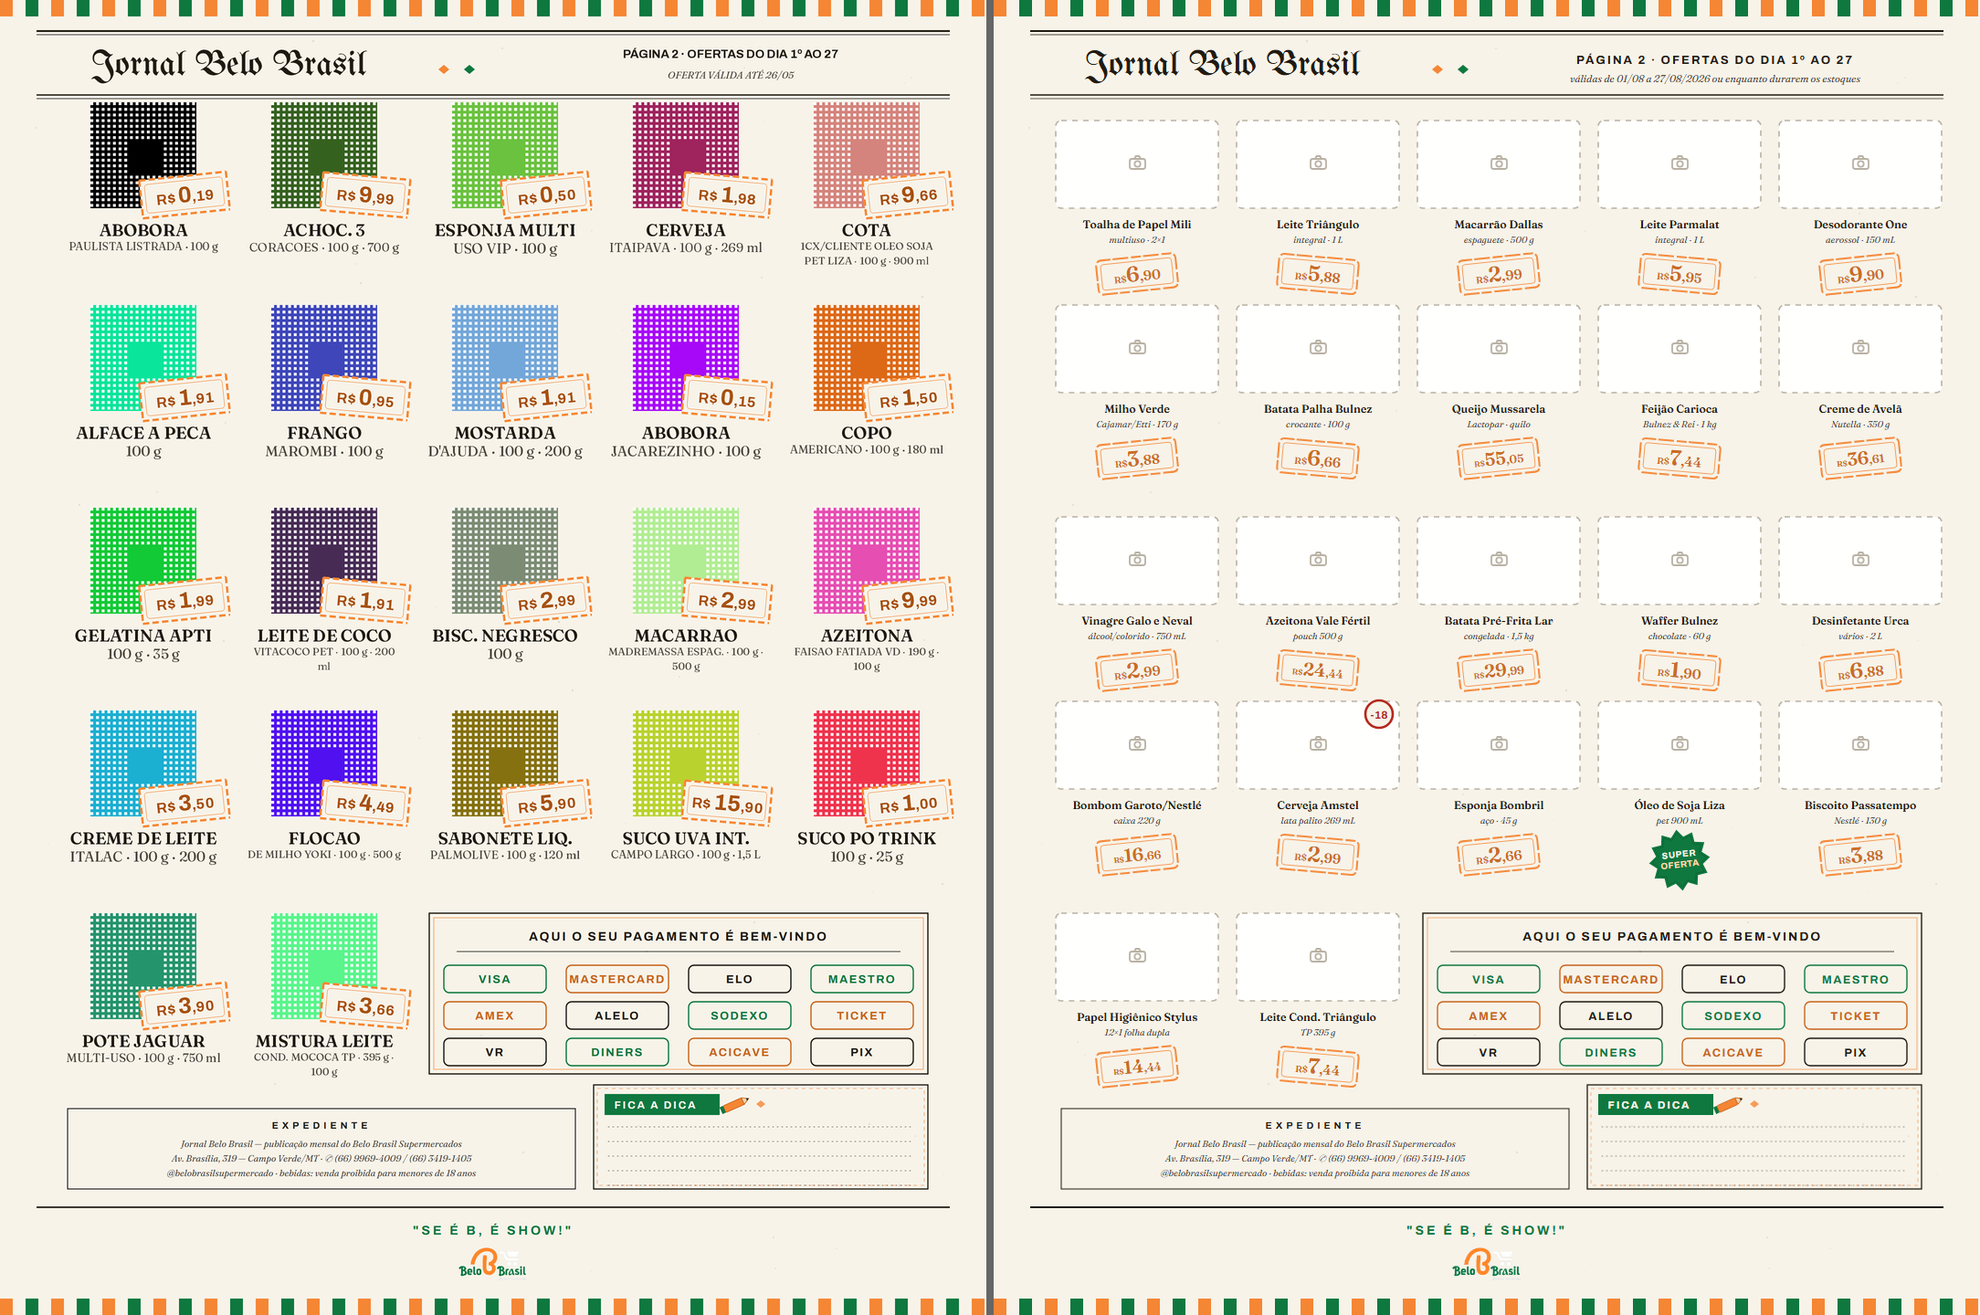
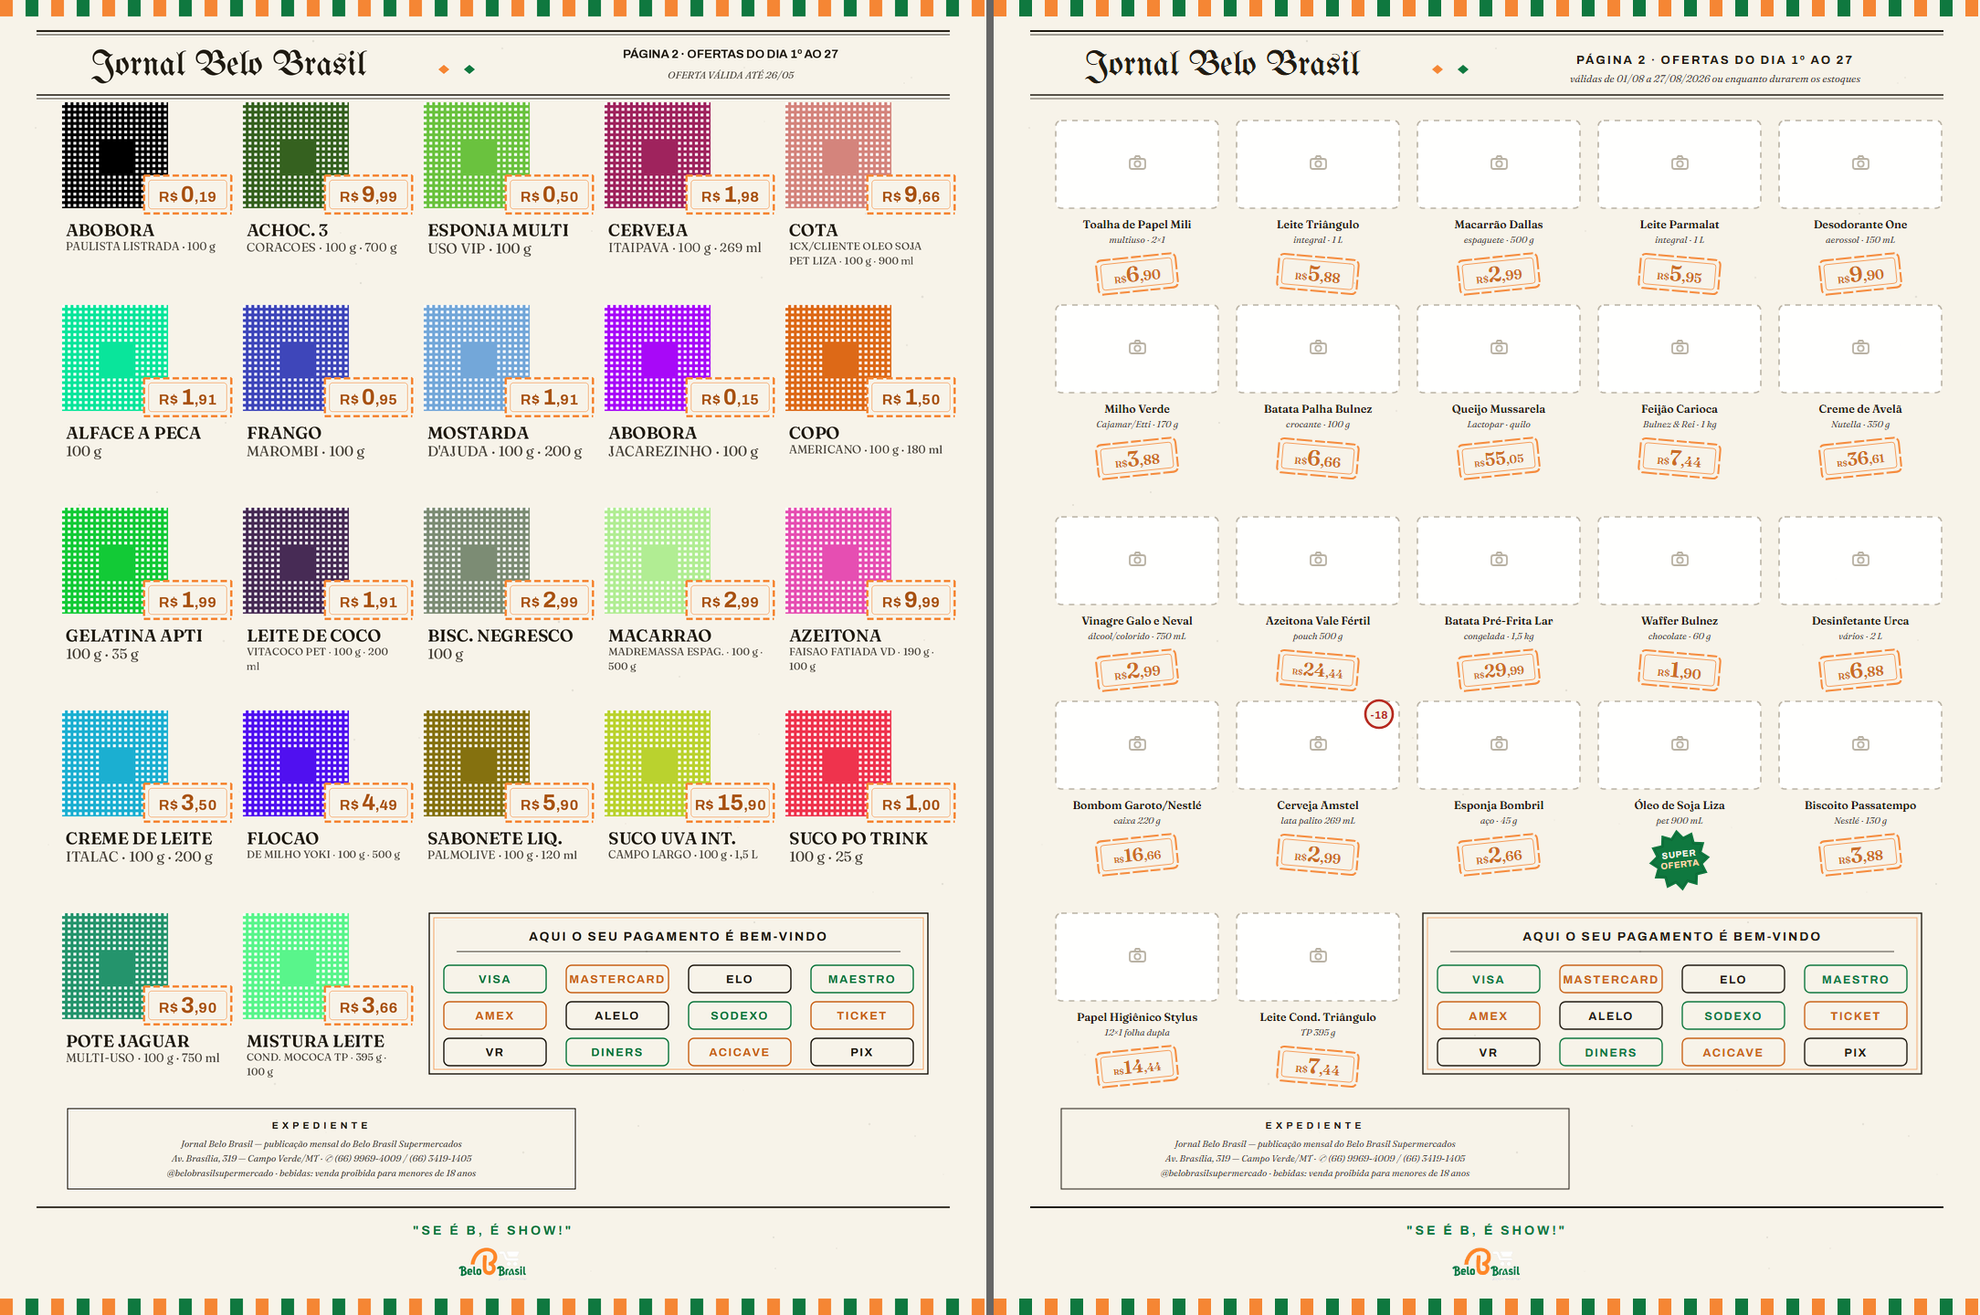
F13 REAUDITORIA PARAGRAFO-7 da UNDEVICESIMUS (04/08): B COM UM EIXO, A ETIQUETA MORDE O CANTO - o veredito do arquiteto sobre dcfd6c1 ('o bloco de texto esta resolvido e nao se mexe mais'; 'falta uma coisa so, com tres desdobramentos'). (7.2) A DECISAO B GRAVADA COM A CORRECAO: B estava incompleto -

diff --git a/app/rendering/compositor.py b/app/rendering/compositor.py
@@ -356,9 +356,21 @@ def _desenhar_imagem(base: Image.Image, reg: Regiao, dados: DadosProduto, dpi: i
                 nw = max(1, round(img.width * escala))
                 nh = max(1, round(img.height * escala))
                 img = img.resize((nw, nh))
-                ox = x + (rw - nw) // 2
+                # §7.2 (a decisão B): região com alinhamento ESQUERDA
+                # encosta a foto no eixo do texto — um eixo por coluna
+                if reg.alinhamento == Alinhamento.ESQUERDA:
+                    ox = x
+                elif reg.alinhamento == Alinhamento.DIREITA:
+                    ox = x + rw - nw
+                else:
+                    ox = x + (rw - nw) // 2
                 oy = y + rh - nh              # o produto assenta
                 base.paste(img, (ox, oy), img)
+                # §7.3: a SILHUETA pintada (px) — a régua do pouso da
+                # etiqueta é a TINTA do produto, nunca a caixa
+                if not hasattr(base, "_silhuetas"):
+                    base._silhuetas = {}
+                base._silhuetas[reg.uid] = (ox, oy, nw, nh)
                 return
             if reg.ajuste == Ajuste.PREENCHER:
                 escala = max(rw / img.width, rh / img.height)
@@ -625,6 +637,38 @@ def _desenhar_forma_preco(base: Image.Image, reg: Regiao, dpi: int) -> None:
     base.paste(tile, (x - m, y - m), tile)
 
 
+def _desenhar_quadro_dica(base, draw, reg, dpi, fontes_dir) -> None:
+    """§7.4.3: a MOLDURA do Fica a Dica (era arte rasterizada na BASE
+    do Jornal; caixa vazia com pautas lia como falha de impressão) —
+    desenhada pelo app SOMENTE quando há dica. Geometria derivada do
+    rect do texto com as margens da arte original (aproximação
+    declarada: caixa + tracejado interno + chip verde + losango; o
+    lápis ornamental ficou na memória da arte)."""
+    x, y, rw, rh = _rect_px(reg.rect, dpi)
+    f = mm_para_px(0.2646, dpi)          # 1 px do viewBox 1080, em px
+    qx = round(x - 16 * f)
+    qy = round(y - 38 * f)
+    qw = round(rw + 30 * f)
+    qh = round(rh + 44 * f)
+    draw.rectangle((qx, qy, qx + qw, qy + qh), outline="#201B12",
+                   width=max(1, round(1.3 * f)))
+    m = round(4 * f)
+    d2 = ImageDraw.Draw(base, "RGBA")
+    d2.rectangle((qx + m, qy + m, qx + qw - m, qy + qh - m),
+                 outline=(245, 134, 52, 180), width=max(1, round(f)))
+    cw, ch = round(126 * f), round(23 * f)
+    cx, cy = qx + round(12 * f), qy + round(10 * f)
+    draw.rectangle((cx, cy, cx + cw, cy + ch), fill="#0F783F")
+    fonte = fonte_segura(fontes_dir, "Archivo-Bold.ttf",
+                         round(11.5 * f * 96 / 72))
+    draw.text((cx + cw // 2, cy + ch // 2), "FICA A DICA",
+              font=fonte, fill="#F7F3E9", anchor="mm")
+    lx, ly = cx + cw + round(18 * f), cy + round(11 * f)
+    s = round(5 * f)
+    draw.polygon([(lx, ly), (lx + s, ly - s), (lx + 2 * s, ly),
+                  (lx + s, ly + s)], fill=(245, 134, 52))
+
+
 def _tinta_no_rect(base: Image.Image, x: int, y: int, w: int,
                    h: int) -> float:
     """Fração de pixels que NÃO são papel na área (dist > 40 do creme
@@ -643,11 +687,19 @@ def _tinta_no_rect(base: Image.Image, x: int, y: int, w: int,
 
 
 def _canto_mais_vazio(base, reg_preco, regioes, rects_subst, dpi):
-    """UNDEVICESIMUS §4.1: quando a etiqueta SOBREPÕE a zona da foto,
-    compara a posição da arte (canto direito) com a ESPELHADA (canto
-    esquerdo) e pousa na de menor tinta — com histerese (só muda se o
-    espelho for CLARAMENTE mais limpo) para não tremer entre edições.
-    Devolve o rect novo em mm, ou None (fica onde a arte mandou)."""
+    """UNDEVICESIMUS §7.3: a etiqueta que cruza a zona da foto pousa
+    pela SILHUETA (a tinta pintada do produto, nunca a caixa):
+
+    - produto ESTREITO (etiqueta > 45% da largura visível — garrafa,
+      caixinha): a etiqueta sai da silhueta e pousa AO LADO, dentro
+      da zona;
+    - produto LARGO: a etiqueta MORDE O CANTO inferior direito
+      (~40% dela sobre a tinta) — o centro do produto nunca é coberto
+      e a área invadida fica ≤ 25% da tinta.
+
+    Sem silhueta registrada (máscara/arranjo), cai no §4.1: compara a
+    posição da arte com a ESPELHADA por densidade de tinta, com
+    histerese. Devolve o rect novo em mm, ou None (fica na arte)."""
     from app.rendering.model import Retangulo, TipoRegiao as _TR
     img = next((r for r in regioes
                 if r.tipo == _TR.IMAGEM and r.visivel), None)
@@ -661,12 +713,43 @@ def _canto_mais_vazio(base, reg_preco, regioes, rects_subst, dpi):
             and rp.y_mm < r_img.y_mm + r_img.alt_mm
             and rp.y_mm + rp.alt_mm > r_img.y_mm):
         return None
-    # o espelho horizontal em torno do centro da zona da foto
+
+    def _px(v):
+        return round(mm_para_px(v, dpi))
+
+    sil = getattr(base, "_silhuetas", {}).get(img.uid)
+    if sil:
+        ox, oy, nw, nh = sil             # px da tinta pintada
+        px_por_mm = mm_para_px(1.0, dpi)
+        sil_x0, sil_x1 = ox / px_por_mm, (ox + nw) / px_por_mm
+        sil_y1 = (oy + nh) / px_por_mm
+        larg_sil = sil_x1 - sil_x0
+        cel_x1 = r_img.x_mm + r_img.larg_mm
+        # a base da etiqueta fica onde a arte mandou (o bloco de
+        # texto vem logo abaixo); só o X e a MORDIDA mudam
+        if rp.larg_mm > 0.45 * larg_sil:
+            # AO LADO da silhueta (garrafa/caixinha) — se couber
+            x_lado = sil_x1 + 0.8
+            if x_lado + rp.larg_mm <= cel_x1 + 2.0:
+                return Retangulo(min(x_lado, cel_x1 + 2.0 - rp.larg_mm),
+                                 rp.y_mm, rp.larg_mm, rp.alt_mm)
+            # não coube ao lado: morde o canto mesmo assim (mínimo
+            # de invasão que o canto permite)
+            x_novo = min(sil_x1 - 0.25 * rp.larg_mm,
+                         cel_x1 - rp.larg_mm + 2.0)
+            return Retangulo(x_novo, rp.y_mm, rp.larg_mm, rp.alt_mm)
+        # produto LARGO: morde o canto inf-dir (~40% sobre a tinta —
+        # invasão ≈ 40%×45% ≈ 18% da largura, longe do centro)
+        x_novo = min(sil_x1 - 0.4 * rp.larg_mm,
+                     cel_x1 - rp.larg_mm + 2.0)
+        if abs(x_novo - rp.x_mm) < 0.5:
+            return None
+        return Retangulo(x_novo, rp.y_mm, rp.larg_mm, rp.alt_mm)
+
+    # fallback §4.1 (sem silhueta): o espelho por densidade
     x_esp = 2 * r_img.x_mm + r_img.larg_mm - rp.x_mm - rp.larg_mm
     if abs(x_esp - rp.x_mm) < 1.0:       # centrado: nada a decidir
         return None
-    def _px(v):
-        return round(mm_para_px(v, dpi))
     atual = _tinta_no_rect(base, _px(rp.x_mm), _px(rp.y_mm),
                            _px(rp.larg_mm), _px(rp.alt_mm))
     espelho = _tinta_no_rect(base, _px(x_esp), _px(rp.y_mm),
@@ -959,6 +1042,11 @@ def _desenhar_regiao_reta(base, draw, reg, dados, dpi, fontes_dir,
         if texto and reg.forma_preco != FormaPreco.TEXTO:
             _desenhar_forma_preco(base, reg, dpi)
             reg = _regiao_palco_da_forma(reg)
+        # UNDEVICESIMUS §7.4.3: o quadro do Fica a Dica saiu da ARTE
+        # (caixa vazia com pautas lê como falha de impressão) — o app
+        # o desenha SÓ quando há dica; sem texto, nada na página
+        if texto and reg.papel_texto == PapelTexto.DICA:
+            _desenhar_quadro_dica(base, draw, reg, dpi, fontes_dir)
         _desenhar_texto(base, draw, reg, texto, dpi, fontes_dir)
     # SELO é desenhado num passe final (âncora), não aqui.
 

diff --git a/app/tests/test_rodada_125_v3.py b/app/tests/test_rodada_125_v3.py
@@ -721,3 +721,97 @@ def test_undevicesimus_bloco_unico_variancia_zero(tmp_path):
             n += 1
     assert n >= 30, f"só {n} células medidas"
     assert len(gaps) == 1, f"entrelinhas diferentes: {sorted(gaps)}"
+
+
+def test_s7_um_eixo_por_coluna_no_banco(tmp_path):
+    """§7.2: a decisão B com a correção — texto E foto à ESQUERDA nas
+    células de coluna (um eixo só; dois eixos disputando liam como
+    desalinho). L16: lido do banco após o import. E §7.4.2: ZERO grau
+    na grade (a inclinação ficou só nos destaques da capa)."""
+    from pathlib import Path
+
+    from app.core.database import Database
+    from app.core.paths import SystemRoot
+    from app.rendering import encartes
+    from app.rendering.model import Alinhamento, TipoRegiao
+    from app.rendering.persistencia import carregar_layout, listar_layouts
+
+    pacote = Path(__file__).resolve().parents[2] / "Templates novos"
+    if not pacote.is_dir():
+        import pytest
+        pytest.skip("REQUER ACERVO DO DONO: a pasta 'Templates novos/'")
+    raiz = SystemRoot(tmp_path / "raiz")
+    db = Database(raiz).init()
+    try:
+        with db.Session() as s:
+            encartes.importar_pacote(s, pacote, raiz=raiz)
+            s.commit()
+            reg = next(r for r in listar_layouts(s)
+                       if r.nome == "Jornal do Mês")
+            lay = carregar_layout(s, reg.id, raiz=raiz)
+    finally:
+        db.engine.dispose()
+    n = 0
+    for pag in lay.paginas:
+        for sl in pag.slots:
+            nome = next((r for r in sl.regioes
+                         if r.tipo == TipoRegiao.NOME), None)
+            sub = next((r for r in sl.regioes
+                        if r.tipo == TipoRegiao.SUBTITULO), None)
+            img = next((r for r in sl.regioes
+                        if r.tipo == TipoRegiao.IMAGEM), None)
+            pr = next((r for r in sl.regioes
+                       if r.tipo == TipoRegiao.PRECO), None)
+            if None in (nome, sub, img, pr):
+                continue
+            if nome.rect.y_mm < img.rect.y_mm + img.rect.alt_mm - 1.0:
+                continue                 # herói/chamada: outra família
+            assert nome.alinhamento == Alinhamento.ESQUERDA, sl.id
+            assert sub.alinhamento == Alinhamento.ESQUERDA, sl.id
+            assert img.alinhamento == Alinhamento.ESQUERDA, sl.id
+            assert pr.rotacao_graus == 0.0, (sl.id, pr.rotacao_graus)
+            n += 1
+    assert n >= 30, f"só {n} células medidas"
+
+
+def test_s7_dica_ou_texto_ou_nada(tmp_path):
+    """§7.4.3: a caixa do Fica a Dica saiu da ARTE — COM dica o app
+    desenha a moldura + chip verde; SEM dica, NADA na página (caixa
+    vazia com pautas lia como falha de impressão). Por pixel."""
+    from collections import Counter
+
+    from PIL import Image
+
+    from app.rendering.compositor import DadosProduto, compor_pagina
+    from app.rendering.model import (
+        LayoutDef, Pagina, PapelTexto, Regiao, Retangulo, Slot,
+        TipoRegiao,
+    )
+    from app.tests import acervo
+
+    fontes = tmp_path / "fontes"
+    fontes.mkdir()
+    acervo.copiar_fontes_reais(fontes)
+    nome_f = next(fontes.glob("*.ttf")).name
+
+    def _pagina(texto):
+        sl = Slot("d1", [
+            Regiao(TipoRegiao.TEXTO_LEGAL, Retangulo(40, 40, 90, 20),
+                   papel_texto=PapelTexto.DICA, texto_fixo=texto,
+                   fonte=nome_f, tamanho_max_pt=10),
+        ])
+        lay = LayoutDef(180.0, 120.0, dpi=96,
+                        paginas=[Pagina(slots=[sl])])
+        return lay, lay.paginas[0]
+
+    verde = (0x0F, 0x78, 0x3F)
+    lay, pag = _pagina("Sardinha com macarrão rende almoço.")
+    img = compor_pagina(lay, pag, {"d1": DadosProduto(nome="X")},
+                        fontes_dir=fontes).convert("RGB")
+    c = Counter(img.getdata())
+    assert c[verde] > 500, f"o chip verde não desenhou ({c[verde]}px)"
+    lay2, pag2 = _pagina("")
+    img2 = compor_pagina(lay2, pag2, {"d1": DadosProduto(nome="X")},
+                         fontes_dir=fontes).convert("RGB")
+    c2 = Counter(img2.getdata())
+    assert c2[verde] == 0, "dica VAZIA desenhou moldura"

diff --git a/app/rendering/encartes.py b/app/rendering/encartes.py
@@ -96,16 +96,20 @@ def _mm(v: float) -> float:
     return px_para_mm(v, DPI_VIEWBOX)
 
 
-def _img(x, y, w, h, rot=0.0, flex=False) -> Regiao:
+def _img(x, y, w, h, rot=0.0, flex=False,
+         alin=Alinhamento.CENTRO) -> Regiao:
     from app.rendering.model import Ajuste
     # F13-TER/V1: as fotos dos encartes ASSENTAM — recorte pela bbox do
     # alfa (o quadrado do acervo morre), maior escala que caiba, âncora
     # no rodapé da zona
     # QUARTUSDECIMUS/Q1: ``flex`` marca célula de arte LISA onde a zona
     # pode mudar de forma conforme a foto da semana (foto_fit)
+    # §7.2: ``alin`` — a decisão B do Jornal exige UM eixo por coluna:
+    # a foto encosta à ESQUERDA como o texto (dois eixos disputando
+    # liam como desalinho)
     return Regiao(TipoRegiao.IMAGEM, _r(x, y, w, h), nome="Foto",
                   rotacao_graus=rot, ajuste=Ajuste.ASSENTAR,
-                  zona_flex=flex)
+                  alinhamento=alin, zona_flex=flex)
 
 
 def _nome(x, y, w, h, *, fonte, rot=0.0, alin=Alinhamento.CENTRO,
@@ -727,7 +731,10 @@ def _jornal_linha(pref: str, slots: list, y: float, n: int,
     LARD), s=0.78, rot −6/+5 alternando por coluna."""
     for c in range(n):
         x = 64 + c * 198
-        rot = -6.0 if (c % 2 == 0) else 5.0
+        # §7.4.2: ZERO grau na GRADE — a inclinação é charme uma vez e
+        # defeito de impressão vinte e duas; ela fica só nos destaques
+        # da capa (herói e chamadas)
+        rot = 0.0
         slots.append(_slot(f"{pref}-l{inicio + c}", [
             # v2 (fotos "cortadas" da 2ª prova): o FIO desenha ANTES da
             # foto — vinha depois na lista e riscava o topo do produto
@@ -743,7 +750,10 @@ def _jornal_linha(pref: str, slots: list, y: float, n: int,
             # inferior direito dela — o clássico dos encartes: o preço
             # "gruda" no produto. Antes: 17,7 mm até o próprio produto
             # e −1,8 mm até o seguinte (o olho agrupava ERRADO).
-            _img(x + 4, y - 20, 178, 116, flex=True),
+            # §7.2 (a decisão B, com a correção do arquiteto): a foto
+            # encosta à ESQUERDA junto com o texto — UM eixo por coluna
+            _img(x + 4, y - 20, 178, 116, flex=True,
+                 alin=Alinhamento.ESQUERDA),
             # o carimbo DEPOIS da foto na lista (L-C: preço é a última
             # camada) — cavalga a borda direita, sobrepondo ~36 px
             _preco(x + 90, y + 60, 96, 42, fonte=_F_ARCHIVO, rot=rot,
@@ -761,12 +771,13 @@ def _jornal_linha(pref: str, slots: list, y: float, n: int,
             # ainda pode 2 linhas quando o extenso exigir (o conflito
             # H3-contagem × lei-v4 está DECLARADO para o dono).
             _nome(x + 8, y + 108, 170, 24, fonte=_F_FRAUNCES,
-                  tam=14.0, cor=_J_INK, alin_v=AlinhamentoV.TOPO),
+                  tam=14.0, cor=_J_INK, alin_v=AlinhamentoV.TOPO,
+                  alin=Alinhamento.ESQUERDA),
             # ERRATA §13.3: sem itálico, 11,5/10,5 (o piso DURO do
             # compositor segue como exceção anti-tesoura, K3)
             _sub(x + 8, y + 130, 170, 34, fonte=_F_FRA_RE,
                  tam=11.5, tam_min=10.5, cor=_J_GRAY,
-                 alin_v=AlinhamentoV.TOPO),
+                 alin_v=AlinhamentoV.TOPO, alin=Alinhamento.ESQUERDA),
         ], origem=(x + 4, y)))
 
 

diff --git a/docs/RODADA_125_O_JORNAL_DO_DONO.md b/docs/RODADA_125_O_JORNAL_DO_DONO.md
@@ -1431,3 +1431,56 @@ ordem. Com o bloco único, a 2ª linha desce com a MESMA entrelinha
 §4.7 (o herói é escolha do dono — o gesto "destacar" na Mesa); a
 vírgula menor que os centavos (§4.5, ganho marginal); e as Ondas 2-4
 da DUODEVICESIMUS que seguem na fila.
+
+## A REAUDITORIA §7 (04/08) — a resposta do builder
+
+### §7.2 — B gravada, com a correção do eixo
+
+A decisão B entrou no GERADOR (e no banco): texto **e foto** à
+ESQUERDA nas células de coluna — um eixo só por coluna (o motor
+ganhou o alinhamento horizontal no ASSENTAR, gate por região; o
+default CENTRO dos outros encartes intacto). A capa segue centrada
+(herói e chamadas — editorial). Guardião
+`test_s7_um_eixo_por_coluna_no_banco` (L16).
+
+### §7.3 — a etiqueta parou de engolir o produto
+
+O pouso agora é pela **SILHUETA** (a tinta pintada, registrada pelo
+compositor no desenho da foto — nunca a caixa): produto ESTREITO
+(etiqueta > 45% da largura visível — garrafa, caixinha) → a etiqueta
+sai da silhueta e pousa **AO LADO**, dentro da zona; produto LARGO →
+**morde o canto** inferior direito (~40% dela sobre a tinta ≈ 18% da
+largura invadida — o centro nunca é coberto, área ≤ 25%). Sem
+silhueta (máscara/arranjo), cai no §4.1 (espelho por densidade). Na
+prova real: a Água, o Campari, o Leite e o Macarrão com a etiqueta ao
+lado; a Yoki e os largos com a mordida no canto. O caso-limite "não
+coube nem no mínimo → encolhe a foto" não ocorreu em nenhuma das 42
+células — fica nomeado como degrau futuro se uma arte apertada o
+exigir.
+
+### §7.4 — os três acabamentos
+
+1. **Produto ≥85% da altura:** MEDIDO na p2 real — 19 de 21 células a
+   100% (o ASSENTAR escala pelo lado limitante); as 2 restantes são
+   fotos LARGAS (limitadas pela largura — esticar seria distorcer; o
+   conserto real é o §4.6 da área óptica, nomeado).
+2. **0° na grade:** feito — a inclinação (−6/+5) ficou só no herói e
+   nas chamadas da capa.
+3. **A dica ou tem texto ou não existe:** o quadro SAIU da BASE
+   (gerador + T6 + reimport) e virou desenho CONDICIONAL do app
+   (`_desenhar_quadro_dica`: moldura + tracejado + chip verde FICA A
+   DICA + losango; o lápis ornamental ficou na memória da arte —
+   aproximação declarada). Sem dica: NADA na página. Guardião
+   `test_s7_dica_ou_texto_ou_nada` por pixel (verde do chip > 500 com
+   texto; == 0 sem).
+
+### Achado de bancada — a prova usava o NOME, não o CAMINHO
+
+O quadro "removido" reapareceu na 1ª prova: a internação de artes
+deduplica por CONTEÚDO (`jornal-p2-BASE_2/_3.png` quando os bytes
+mudam — defensivo e correto: arte antiga pode ser referenciada por
+outro layout), e o script da prova derivava o fundo pela CONVENÇÃO DE
+NOME fixa — pegava o PNG VELHO da raiz. A prova agora carrega o
+layout pelo `carregar_layout` e usa o `arquivo_fundo` REAL do banco —
+a L16 valia para a geometria e furava no fundo; furava mais: está
+fechada nas duas pontas.
